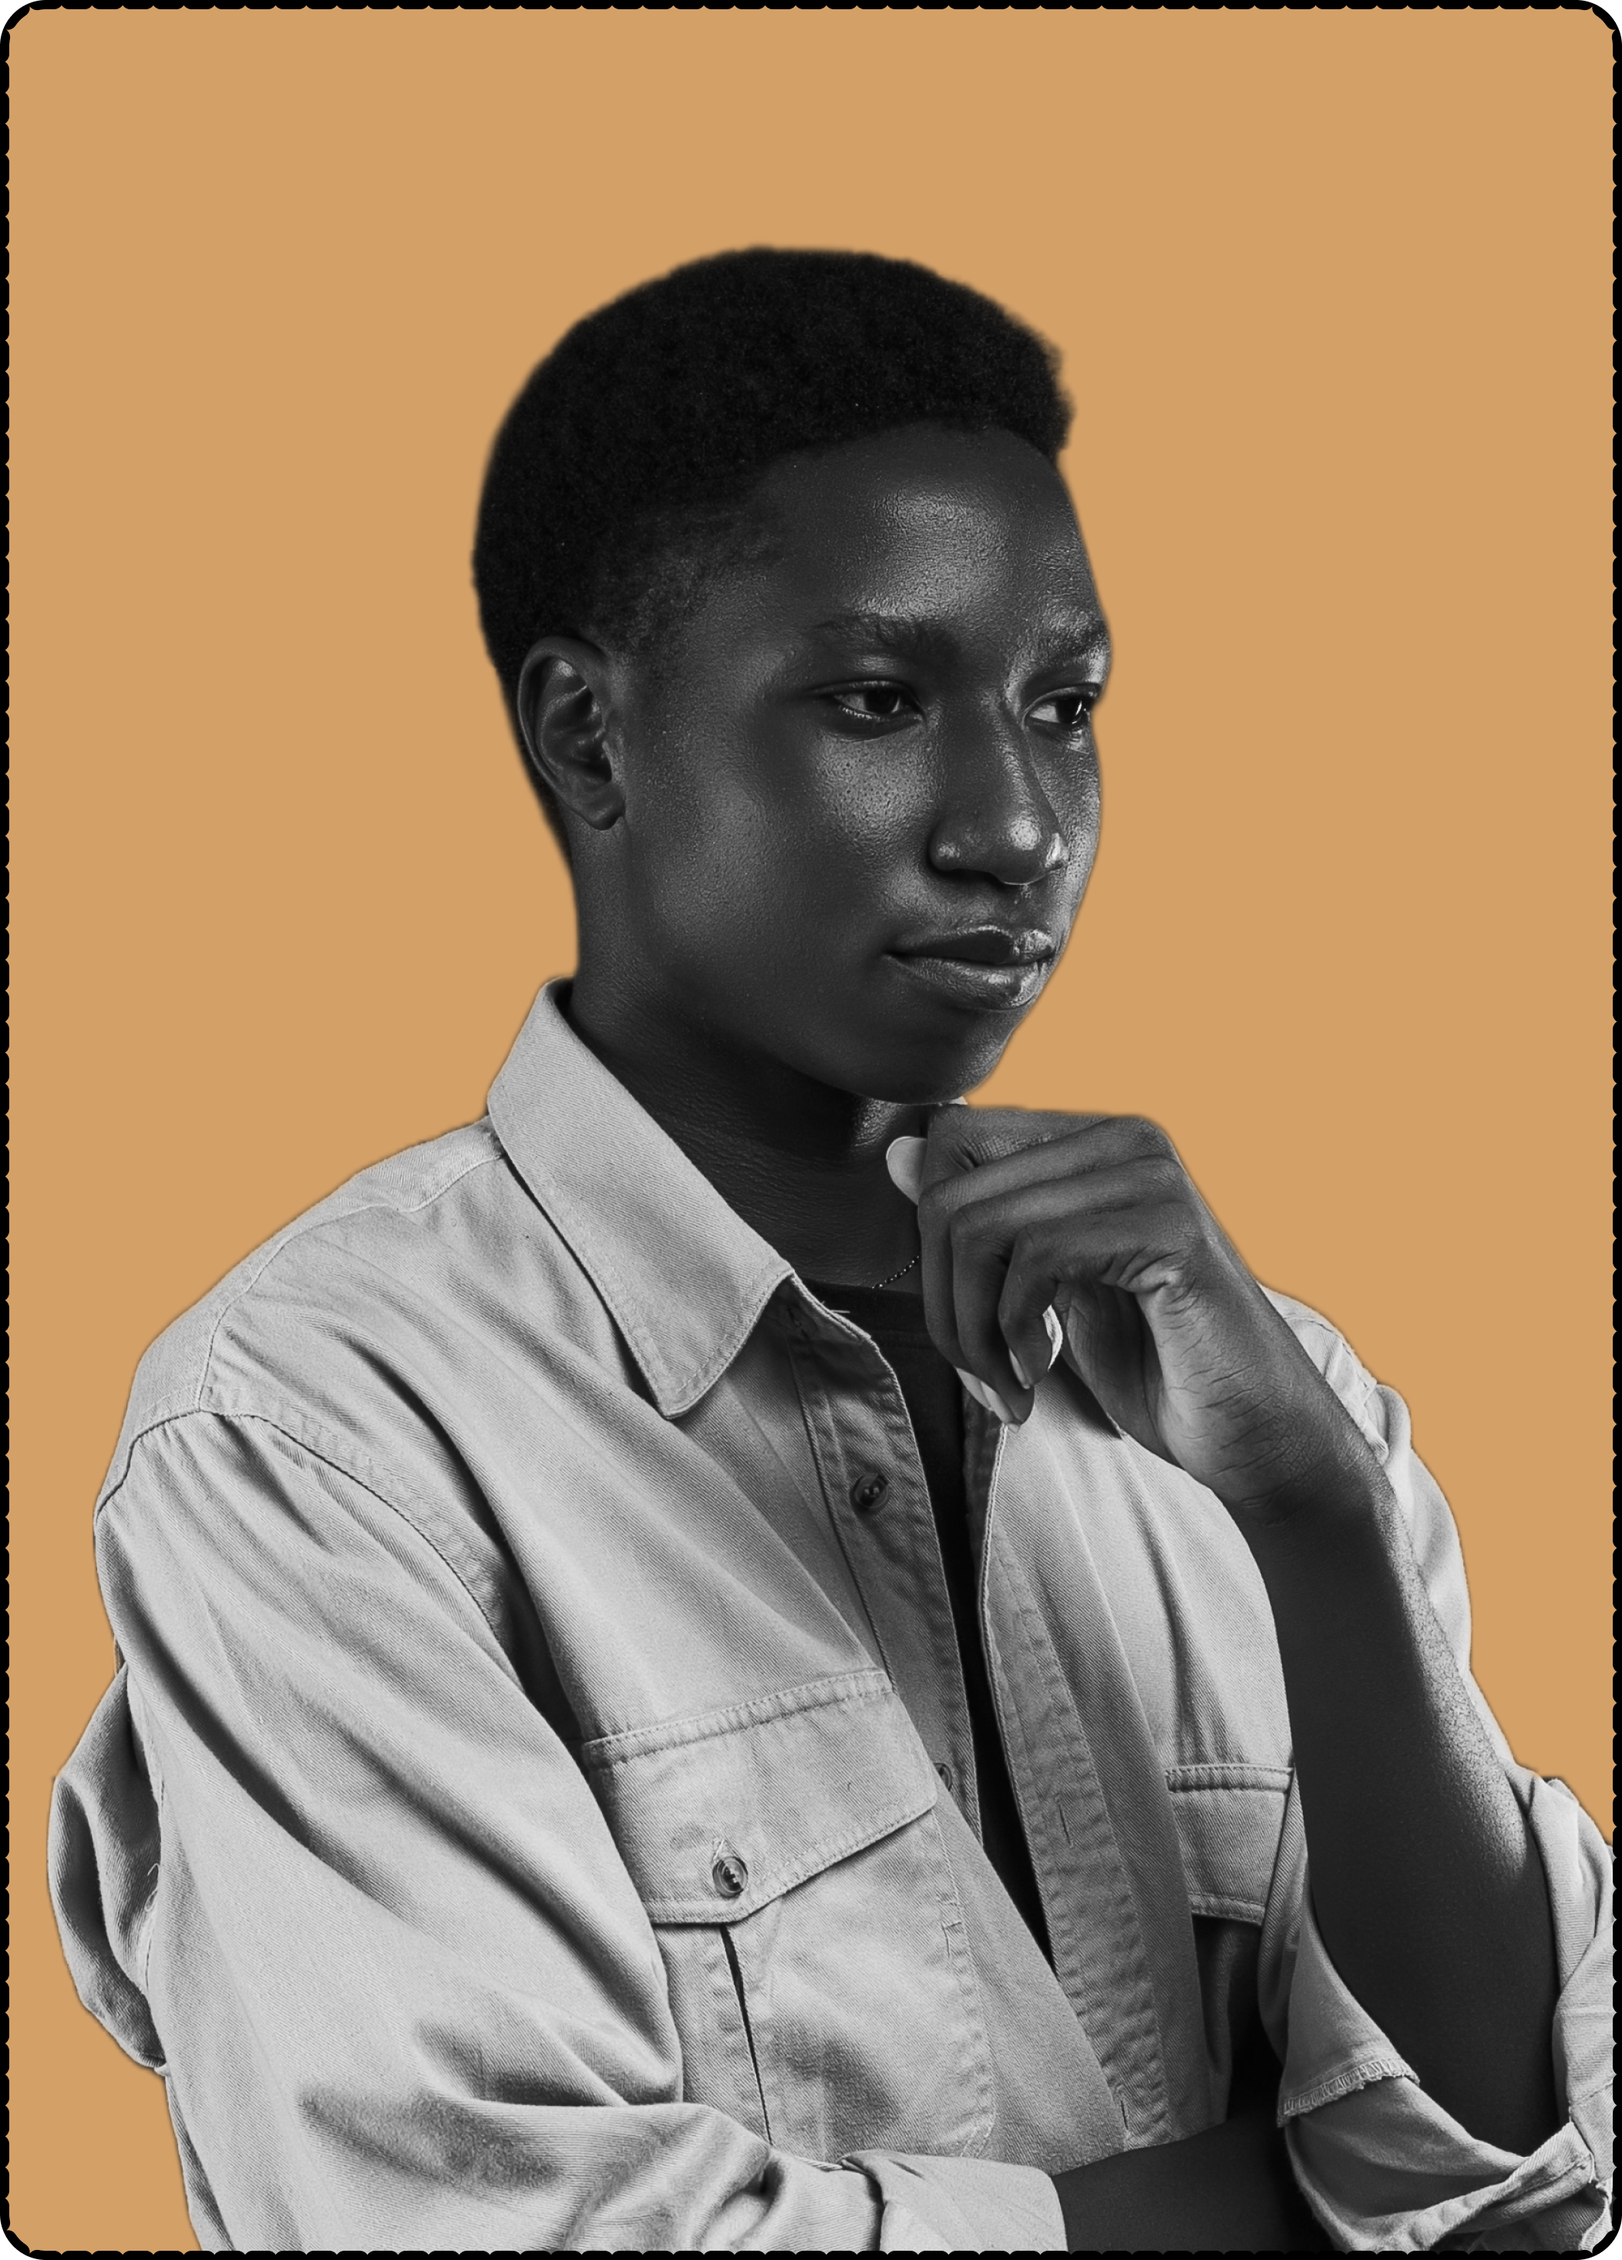
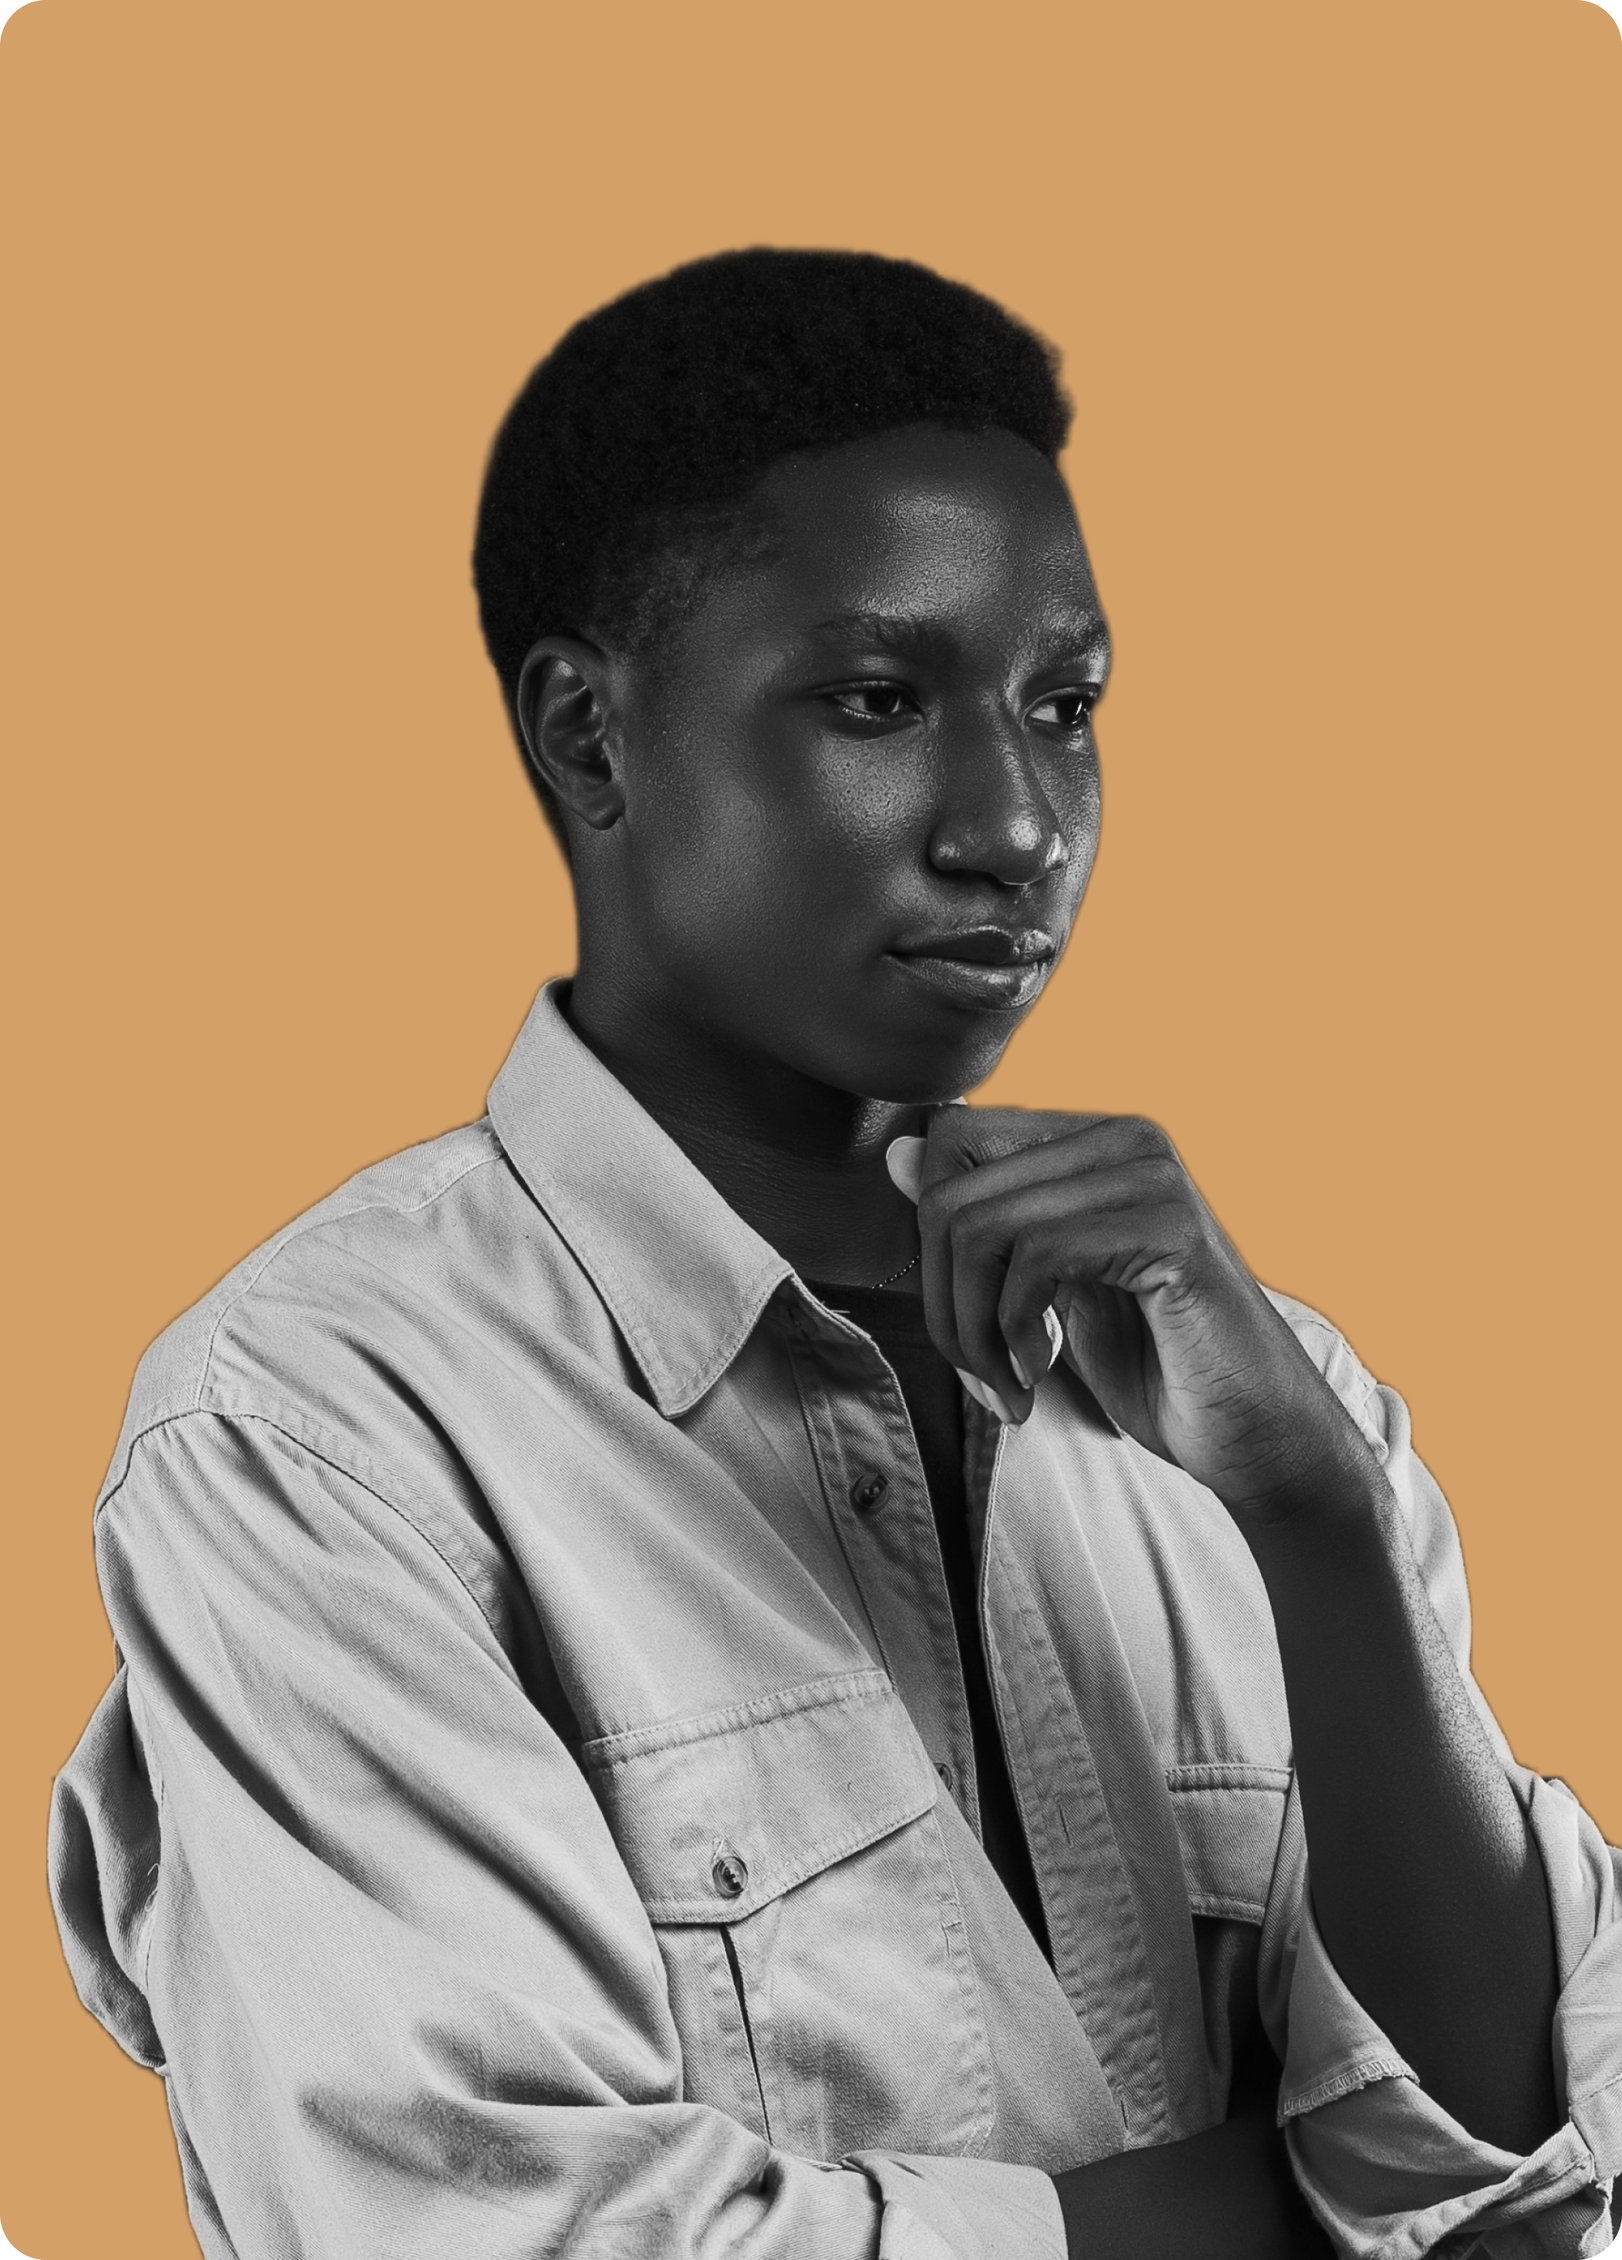
updated animation

Changed region(s): [[0.0, 0.0, 1.0, 1.0]]

diff --git a/app/eureka/Odyssey.jsx b/app/eureka/Odyssey.jsx
@@ -1,5 +1,5 @@
 import React from "react";
-import { images } from "@/app/utils";
+import { images, icons } from "@/app/utils";
 import Image from "next/image";
 
 function Odyssey() {
@@ -32,12 +32,29 @@ function Odyssey() {
           </p>
         </div>
       </div>
-      <div className="h-full w-auto rounded-[15px] border-[3px] border-dashed border-black overflow-hidden relative  ">
+      <div className="h-full relative group w-auto rounded-[15px] border-[3px] border-dashed border-black overflow-hidden   ">
         <Image
           src={images.folabi}
           alt=""
-          className="h-full w-full absolute hover:scale-[1.5] scale-[1.01] duration-700 ease-in-out top-0 rounded-[15px] left-0 z-40 object-cover "
+          className="h-full w-full absolute  top-0 rounded-[15px] left-0 z-[10] object-cover "
         />
+        <Image
+          src={icons.arr1}
+          height={300}
+          alt=""
+          className=" absolute  rounded-[15px] left-0 bottom-12 opacity-0 group-hover:opacity-[1] speed z-[20] "
+        />
+        <Image
+          src={icons.arr2}
+          height={300}
+          alt=""
+          className=" absolute  rounded-[15px] right-4 top-[120px] opacity-0 group-hover:opacity-[1] speed z-[20] "
+        />
+        <div className="w-full flex-center ">
+          <div className="absolute z-20 h-[115px]  w-auto px-[48px] py-[38px] flex-center wb rounded-[15px] group-hover:-bottom-4 -bottom-[130px]  speed ">
+            <h2 className="text-[32px]">THE GENIUS</h2>
+          </div>
+        </div>
       </div>
     </section>
   );

diff --git a/app/utils/icons.js b/app/utils/icons.js
@@ -11,6 +11,8 @@ import zero2 from "@/public/images/zero2.png";
 import right from "@/public/images/right.png";
 import arrowup from "@/public/images/arrow-up.svg";
 import arrowright from "@/public/images/arrow-right.svg";
+import arr1 from "@/public/images/arr1.png";
+import arr2 from "@/public/images/arr2.png";
 
 module.exports = {
   zero,
@@ -26,4 +28,6 @@ module.exports = {
   flower,
   flowerr,
   globe,
+  arr1,
+  arr2,
 };
